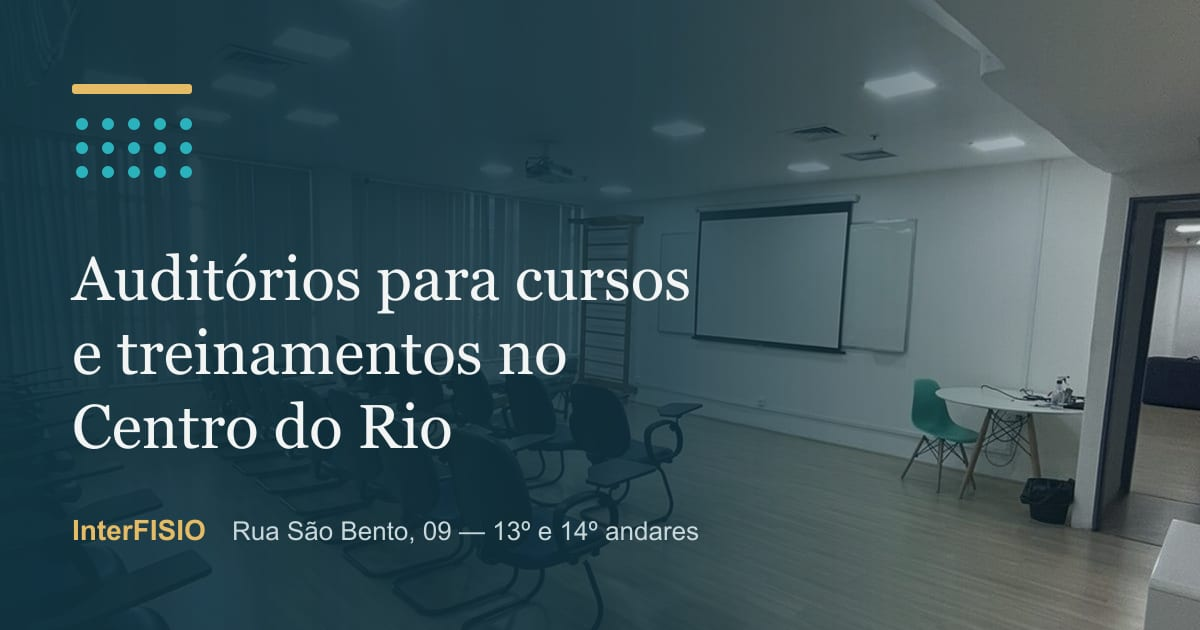
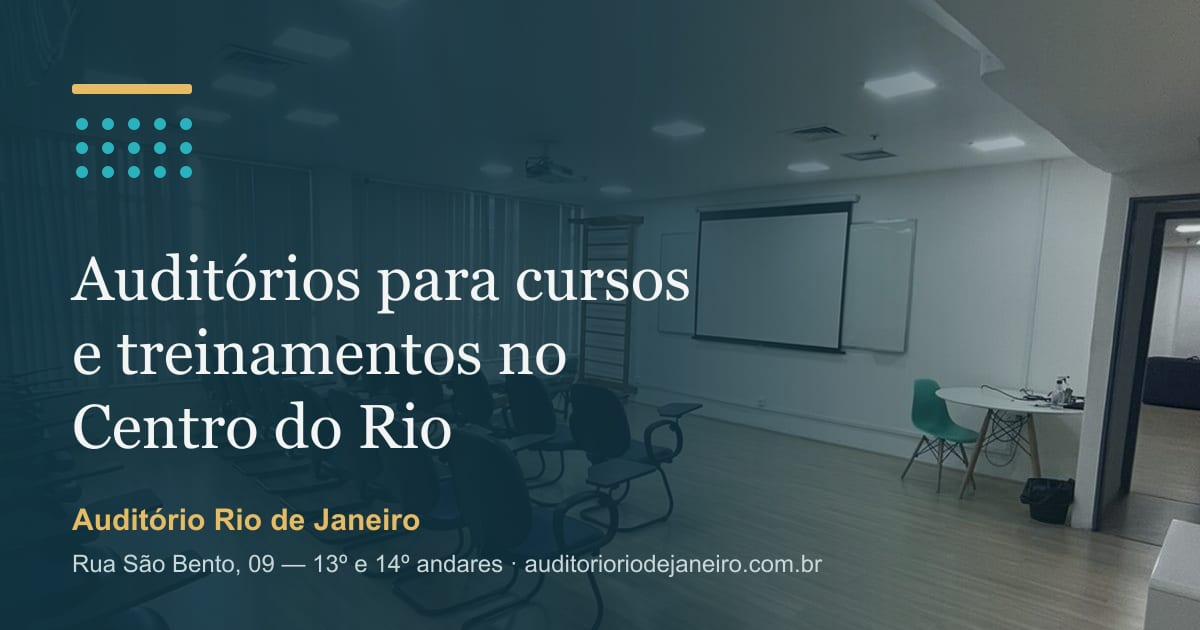
feat: rebrand site as "Auditório Rio de Janeiro"
- Brand name/line, WhatsApp default message and hero intro move to the
  new brand in the seed; bootstrap v3 patches existing databases only
  where the original seed text is still in place, and drops
  "da InterFISIO" from the seeded photo alt texts.
- Titles use the brand from settings and are shortened to ~60 chars;
  og:site_name and the WebSite schema use the plain brand name.
- Admin panel, web manifest and the OG image show the new name
  (optimize-media.mjs accepts task names, e.g. `og`).
- SITE_URL is now https://auditorioriodejaneiro.com.br so canonical
  URLs, sitemap and JSON-LD point at the domain, not workers.dev.
- Brand text stays on one line in the mobile header.

Changed region(s): [[0.0617, 0.7841, 0.6783, 0.9048]]

diff --git a/src/worker/views/pages.ts b/src/worker/views/pages.ts
@@ -32,15 +32,15 @@ import {
 export function roomsPage(ctx: RenderCtx, data: SiteData): SafeHtml {
   const { settings: s, rooms } = data;
   const base = ctx.base;
-  const title = 'Auditórios para locação no Centro do Rio de Janeiro | InterFISIO';
-  const description = `Compare os ${rooms.length} auditórios da InterFISIO na Rua São Bento, Centro do Rio: capacidade, recursos e formatos. Locação por hora, turno ou andar completo.`;
+  const title = `Auditórios para locação no Centro | ${s.brandName}`;
+  const description = `Compare os ${rooms.length} auditórios na Rua São Bento, Centro do Rio: capacidade, recursos e formatos. Locação por hora, turno ou andar completo.`;
   const amenityIds = [...new Set(rooms.flatMap((r) => r.amenities))];
 
   const body = html`
 <section class="page-hero">
   ${breadcrumb([{ name: 'Início', href: '/' }, { name: 'Auditórios' }])}
   <h1 class="page-hero__title">Auditórios para locação no Centro do Rio</h1>
-  <p class="page-hero__lead" data-speakable>A InterFISIO tem ${rooms.length} auditórios na ${s.address.street}, ${s.address.complement}, para ${s.stats.capacityLabel || '30 a 50'} pessoas, com datashow, tela de projeção e climatização. Locação por hora, por turno ou do andar completo.</p>
+  <p class="page-hero__lead" data-speakable>São ${rooms.length} auditórios na ${s.address.street}, ${s.address.complement}, para ${s.stats.capacityLabel || '30 a 50'} pessoas, com datashow, tela de projeção e climatização. Locação por hora, por turno ou do andar completo.</p>
   <form class="filter" data-room-filter role="search" aria-label="Filtrar auditórios">
     <label for="filter-people">Participantes</label>
     <input id="filter-people" type="number" min="1" max="2000" inputmode="numeric" placeholder="Ex.: 40" data-filter-people>
@@ -134,7 +134,7 @@ export function roomPage(ctx: RenderCtx, data: SiteData, r: Room): SafeHtml {
   const { settings: s, rooms } = data;
   const base = ctx.base;
   const path = `/auditorios/${r.slug}`;
-  const title = r.seoTitle || `${r.name} para locação no Centro do Rio | ${s.brandName}`;
+  const title = r.seoTitle || `${r.name} no Centro do Rio | ${s.brandName}`;
   const description =
     r.seoDescription ||
     `${r.name} da ${s.brandName} na ${s.address.street}, Centro do Rio: ${capacityText(r).toLowerCase()}, ${r.amenities
@@ -308,9 +308,9 @@ export function corporatePage(ctx: RenderCtx, data: SiteData): SafeHtml {
   const base = ctx.base;
   const path = '/pacote-corporativo';
   const corpFaqs = faqs.filter((f) => f.scope === 'corporativo');
-  const title = `Pacote corporativo: andar completo no Centro do Rio | ${s.brandName}`;
+  const title = `Pacote corporativo: andar completo | ${s.brandName}`;
   const description =
-    'Alugue o andar completo da InterFISIO no Centro do Rio: três salas/auditórios, recepção customizável com a sua marca, copa para coffee break e banheiro.';
+    'Alugue um andar completo no Centro do Rio: três salas/auditórios, recepção customizável com a sua marca, copa para coffee break e banheiro.';
   const cover = rooms[0]?.photos[0];
 
   const body = html`

diff --git a/src/worker/db/bootstrap.ts b/src/worker/db/bootstrap.ts
@@ -5,7 +5,7 @@ import { DEFAULT_SETTINGS, SEED_FAQS, SEED_ROOMS } from './seed';
  * Aumente quando adicionar um arquivo em migrations/ (inclua-o em MIGRATIONS) ou um item em
  * CONTENT_PATCHES. Bancos já criados rodam de novo o schema (idempotente) e os patches.
  */
-export const SCHEMA_VERSION = '2';
+export const SCHEMA_VERSION = '3';
 const MIGRATIONS = [schemaSql];
 
 /**
@@ -22,6 +22,45 @@ const CONTENT_PATCHES: { table: 'faqs'; id: string; column: 'answer'; from: stri
     to: 'Envie a consulta pelo formulário do site. A equipe verifica a data, o horário e as condições de locação e responde no WhatsApp ou no e-mail. A reserva fica confirmada quando vocês combinam os detalhes e agendam a sala.',
   },
 ];
+
+/**
+ * v3: a marca do site passou a ser "Auditório Rio de Janeiro". Troca só os campos das
+ * configurações que ainda têm o texto inicial (edições feitas no painel ficam como estão)
+ * e tira "da InterFISIO" do texto alternativo das fotos iniciais.
+ */
+const REBRAND_V3: { path: string[]; from: string; to: string }[] = [
+  { path: ['brandName'], from: 'InterFISIO', to: DEFAULT_SETTINGS.brandName },
+  { path: ['brandLine'], from: 'Locação de auditórios no Rio de Janeiro', to: DEFAULT_SETTINGS.brandLine },
+  { path: ['whatsappMessage'], from: 'Olá! Gostaria de consultar a locação de um auditório da InterFISIO.', to: DEFAULT_SETTINGS.whatsappMessage },
+  {
+    path: ['hero', 'intro'],
+    from: 'Realize sua próxima aula, curso ou reunião na InterFISIO. Escolha um auditório por hora ou turno, ou consulte o pacote corporativo para locar o andar completo.',
+    to: DEFAULT_SETTINGS.hero.intro,
+  },
+];
+
+async function rebrandV3(db: D1Database, now: string): Promise<void> {
+  const row = await db.prepare("SELECT value FROM settings WHERE key = 'site'").first<{ value: string }>();
+  if (row) {
+    const site = JSON.parse(row.value) as Record<string, unknown>;
+    let changed = false;
+    for (const { path, from, to } of REBRAND_V3) {
+      const parent = path.slice(0, -1).reduce<Record<string, unknown> | undefined>((o, k) => o?.[k] as Record<string, unknown> | undefined, site);
+      const key = path[path.length - 1];
+      if (parent && parent[key] === from) {
+        parent[key] = to;
+        changed = true;
+      }
+    }
+    if (changed) {
+      await db.prepare("UPDATE settings SET value = ?, updated_at = ? WHERE key = 'site'").bind(JSON.stringify(site), now).run();
+    }
+  }
+  await db
+    .prepare("UPDATE rooms SET photos = REPLACE(photos, ' da InterFISIO', ''), updated_at = ? WHERE photos LIKE '%da InterFISIO%'")
+    .bind(now)
+    .run();
+}
 
 let ready: Promise<void> | null = null;
 
@@ -130,6 +169,8 @@ async function bootstrap(db: D1Database): Promise<void> {
       ),
     );
   }
+
+  await rebrandV3(db, now);
 
   await db
     .prepare('INSERT OR REPLACE INTO settings (key, value, updated_at) VALUES (?,?,?)')

diff --git a/src/worker/db/seed.ts b/src/worker/db/seed.ts
@@ -5,10 +5,10 @@
 import type { Faq, Room, SiteSettings } from '../../shared/types';
 
 export const DEFAULT_SETTINGS: SiteSettings = {
-  brandName: 'InterFISIO',
-  brandLine: 'Locação de auditórios no Rio de Janeiro',
+  brandName: 'Auditório Rio de Janeiro',
+  brandLine: 'Locação de auditórios no Centro do Rio',
   whatsapp: '5521967770445',
-  whatsappMessage: 'Olá! Gostaria de consultar a locação de um auditório da InterFISIO.',
+  whatsappMessage: 'Olá! Gostaria de consultar a locação de um auditório.',
   email: 'cursos@interfisio.com.br',
   address: {
     street: 'Rua São Bento, 09',
@@ -24,7 +24,7 @@ export const DEFAULT_SETTINGS: SiteSettings = {
   hero: {
     title: 'Auditórios para cursos e treinamentos no Centro do Rio de Janeiro',
     intro:
-      'Realize sua próxima aula, curso ou reunião na InterFISIO. Escolha um auditório por hora ou turno, ou consulte o pacote corporativo para locar o andar completo.',
+      'Realize sua próxima aula, curso ou reunião no Centro do Rio. Escolha um auditório por hora ou turno, ou reserve o andar completo com o pacote corporativo.',
     note: 'De 30 a 50 pessoas, conforme o auditório.',
   },
   stats: {
@@ -116,14 +116,14 @@ export const SEED_ROOMS: SeedRoom[] = [
     tagline: 'Para novas ideias.',
     summary: 'Quadro de vidro, projetor no teto e cadeiras com prancheta. Indicado para oficinas, workshops e reuniões de trabalho.',
     description: `O Auditório 3 combina quadro de vidro e projetor instalado no teto, um bom formato para oficinas e reuniões em que as ideias vão sendo registradas ao longo do encontro.\n\n${BASE_DESCRIPTION}`,
-    photos: [photo('auditorio-3', 'Auditório 3 da InterFISIO com cadeiras com prancheta, quadro de vidro e projetor no teto')],
+    photos: [photo('auditorio-3', 'Auditório 3 com cadeiras com prancheta, quadro de vidro e projetor no teto')],
     amenities: ['cadeiras-prancheta', 'projetor', 'quadro-vidro', 'climatizacao', 'copa', 'banheiro'],
   }),
   room(4, {
     tagline: 'Para aprender e trocar.',
     summary: 'Tela de projeção e área frontal livre, com cadeiras com prancheta. Indicado para cursos, palestras e encontros de formação.',
     description: `O Auditório 4 tem tela de projeção e área frontal livre, adequada para palestras, cursos e encontros de formação.\n\n${BASE_DESCRIPTION}`,
-    photos: [photo('auditorio-4', 'Auditório 4 da InterFISIO com cadeiras com prancheta, tela de projeção e área frontal livre')],
+    photos: [photo('auditorio-4', 'Auditório 4 com cadeiras com prancheta, tela de projeção e área frontal livre')],
     amenities: ['cadeiras-prancheta', 'projetor', 'tela-projecao', 'climatizacao', 'copa', 'banheiro'],
   }),
 ];

diff --git a/src/worker/views/home.ts b/src/worker/views/home.ts
@@ -57,7 +57,7 @@ export function homePage(ctx: RenderCtx, data: SiteData): SafeHtml {
   const homeFaqs = faqs.filter((f) => f.scope === 'home');
   const heroPhoto = rooms.find((r) => r.slug === 'auditorio-2')?.photos[0] ?? rooms[0]?.photos[0];
   const second = rooms.find((r) => r.slug === 'auditorio-3')?.photos[0] ?? rooms[1]?.photos[0];
-  const title = 'Aluguel de auditórios no Centro do Rio de Janeiro | InterFISIO';
+  const title = `${s.brandName} | Aluguel de auditórios no Centro`;
   const description =
     'Auditórios para cursos, treinamentos e reuniões no Centro do Rio, para 30 a 50 pessoas, com datashow e climatização. Locação por hora, turno ou andar completo.';
 
@@ -99,7 +99,7 @@ ${seatPlanner(rooms)}
 
 <section class="tour" aria-label="Vídeo: por dentro dos auditórios">
   <div class="tour__frame" data-reveal>
-    <video class="tour__video" muted loop playsinline preload="none" poster="/assets/video/tour-poster.webp" width="960" height="540" data-autoplay-visible aria-label="Passeio pelos quatro auditórios da InterFISIO">
+    <video class="tour__video" muted loop playsinline preload="none" poster="/assets/video/tour-poster.webp" width="960" height="540" data-autoplay-visible aria-label="Passeio pelos quatro auditórios">
       <source src="/assets/video/tour-auditorios.webm" type="video/webm">
       <source src="/assets/video/tour-auditorios.mp4" type="video/mp4">
     </video>

diff --git a/src/client/admin.ts b/src/client/admin.ts
@@ -56,7 +56,7 @@ function showLogin(notice?: string): void {
 function startApp(user: AdminUser): void {
   router?.dispose();
   setUser(user);
-  document.title = 'Painel · InterFISIO';
+  document.title = 'Painel · Auditório Rio de Janeiro';
   if (!location.hash) location.hash = '#/';
   const main = h('main', { id: 'main', class: 'content', tabindex: '-1' });
   const nav = h('nav', { class: 'nav', 'aria-label': 'Principal' });
@@ -94,14 +94,14 @@ function startApp(user: AdminUser): void {
     menuBtn.setAttribute('aria-expanded', 'false');
   };
   side.append(
-    h('div', { class: 'brand' }, h('strong', null, 'InterFISIO'), h('span', null, ' · Painel')),
+    h('div', { class: 'brand' }, h('strong', null, 'Auditório Rio de Janeiro'), h('span', null, ' · Painel')),
     nav,
     h('div', { class: 'side-foot' }, h('p', { class: 'who' }, user.name, h('small', null, user.role === 'admin' ? 'Administrador' : 'Editor')), logout),
   );
   mount(
     app,
     h('a', { class: 'skip', href: '#main', onclick: (e: Event) => { e.preventDefault(); main.focus(); } }, 'Ir para o conteúdo'),
-    h('header', { class: 'topbar' }, menuBtn, h('span', { class: 'brand-sm' }, 'InterFISIO · Painel')),
+    h('header', { class: 'topbar' }, menuBtn, h('span', { class: 'brand-sm' }, 'Auditório RJ · Painel')),
     side,
     main,
   );

diff --git a/src/worker/views/layout.ts b/src/worker/views/layout.ts
@@ -106,12 +106,12 @@ ${meta.head ?? ''}
 <link rel="alternate" type="text/markdown" title="Resumo para IA (llms.txt)" href="/llms.txt">
 <meta property="og:type" content="${meta.type ?? 'website'}">
 <meta property="og:locale" content="pt_BR">
-<meta property="og:site_name" content="${s.brandName} — Auditórios no Rio de Janeiro">
+<meta property="og:site_name" content="${s.brandName}">
 <meta property="og:title" content="${fullTitle}">
 <meta property="og:description" content="${meta.description}">
 <meta property="og:url" content="${canonical}">
 <meta property="og:image" content="${image}">
-<meta property="og:image:alt" content="${meta.imageAlt ?? 'Auditório da InterFISIO no Centro do Rio de Janeiro'}">
+<meta property="og:image:alt" content="${meta.imageAlt ?? 'Auditório para locação no Centro do Rio de Janeiro'}">
 <meta name="twitter:card" content="summary_large_image">
 <meta name="twitter:title" content="${fullTitle}">
 <meta name="twitter:description" content="${meta.description}">

diff --git a/src/styles/site.css b/src/styles/site.css
@@ -1,5 +1,5 @@
 /* =========================================================================
-   InterFISIO — Auditórios no Centro do Rio
+   Auditório Rio de Janeiro — site público
    Tokens, base, componentes, seções e animações (sem framework).
    ========================================================================= */
 
@@ -368,6 +368,16 @@ p {
   font-size: 0.78rem;
   color: var(--muted);
   margin-top: 0.2rem;
+}
+@media (max-width: 480px) {
+  .site-header .brand__name {
+    font-size: 1.04rem;
+    white-space: nowrap;
+  }
+  .site-header .brand__line {
+    font-size: 0.7rem;
+    white-space: nowrap;
+  }
 }
 .nav {
   display: flex;

diff --git a/src/worker/seo/files.ts b/src/worker/seo/files.ts
@@ -19,7 +19,7 @@ export function sitemapXml(base: string, data: SiteData): string {
       lastmod: contentDate,
       priority: '1.0',
       changefreq: 'weekly',
-      images: [{ loc: `${base}/og-image.jpg`, title: 'Auditórios da InterFISIO no Centro do Rio' }],
+      images: [{ loc: `${base}/og-image.jpg`, title: 'Auditórios para locação no Centro do Rio de Janeiro' }],
     },
     { loc: `${base}/auditorios`, lastmod: contentDate, priority: '0.9', changefreq: 'weekly' },
     ...data.rooms.map((r) => ({

diff --git a/src/worker/seo/schema.ts b/src/worker/seo/schema.ts
@@ -87,7 +87,7 @@ export function organizationGraph(base: string, s: SiteSettings, rooms: Room[]) 
       '@type': 'WebSite',
       '@id': websiteId(base),
       url: `${base}/`,
-      name: `${s.brandName} — Auditórios no Rio de Janeiro`,
+      name: s.brandName,
       inLanguage: 'pt-BR',
       publisher: { '@id': orgId(base) },
     },

diff --git a/src/client/admin/auth.ts b/src/client/admin/auth.ts
@@ -25,7 +25,7 @@ function shell(title: string, ...body: (Node | null)[]): HTMLElement {
     h(
       'div',
       { class: 'auth-card' },
-      h('p', { class: 'auth-brand' }, 'InterFISIO · Painel'),
+      h('p', { class: 'auth-brand' }, 'Auditório Rio de Janeiro · Painel'),
       h('h1', null, title),
       ...body,
     ),

diff --git a/README.md b/README.md
@@ -1,6 +1,6 @@
-# Auditórios Rio de Janeiro — InterFISIO
+# Auditório Rio de Janeiro
 
-Site e painel de gestão para a locação dos auditórios da InterFISIO (Rua São Bento, 09 — 13º e 14º andares, Centro do Rio).
+Site ([auditorioriodejaneiro.com.br](https://auditorioriodejaneiro.com.br)) e painel de gestão para a locação dos auditórios da Rua São Bento, 09 — 13º e 14º andares, Centro do Rio (espaço da InterFISIO).
 É a versão melhorada do one-page original, com a mesma proposta da plataforma Yevent: catálogo de salas, página própria para cada auditório, consulta de disponibilidade e um portal para a equipe editar tudo sem mexer em código.
 
 - **Stack:** HTML renderizado no servidor + CSS + TypeScript, sem framework. Roda em **Cloudflare Workers** com **D1** (banco), **R2** (fotos enviadas pelo painel) e **Static Assets** (imagens, fontes, vídeo, CSS/JS).
